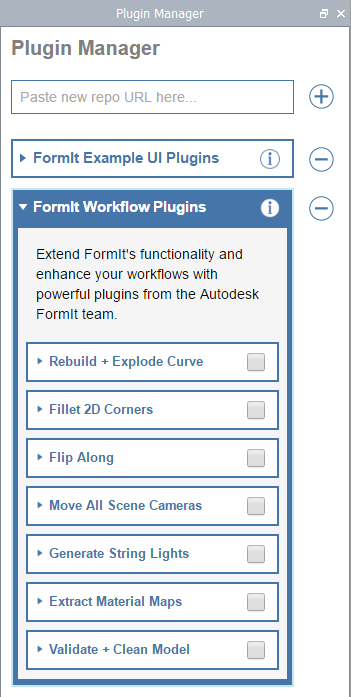
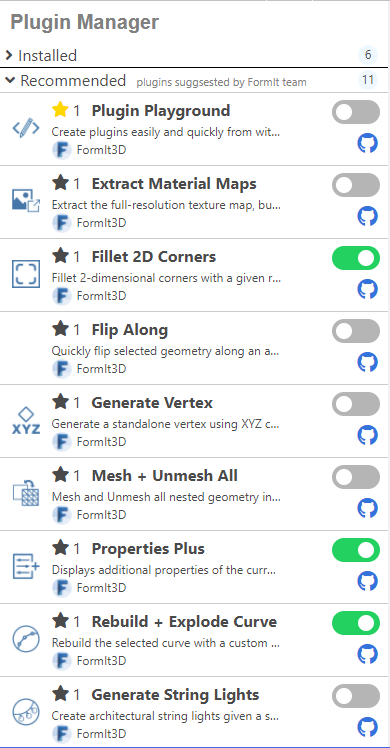
Updates plugin documentation

diff --git a/docs/HowToBuild.html b/docs/HowToBuild.html
@@ -8,7 +8,12 @@
 <h2 class="pageSubtitle">Learn How to Build, Test, and Host Your Own Plugins</h2>
 <p class="pageBlurb">FormIt's JavaScript plugin infrastructure allows the creation of custom 3D workflows and bespoke modeling functionality, using a variety of UI types and a powerful API.</p>
 
-<h3 class="categoryDetailTitle">Jump to...</h3>
+<h3 class="categoryDetailTitle">Jump to (First time plugin developers)...</h3>
+<ul class="categoryDetailList">
+    <li><a href="#PluginPlayground">Your first plugin from the Plugin Playground</a></li>
+</ul>
+
+<h3 class="categoryDetailTitle">Jump to (Advanced users)...</h3>
 <ul class="categoryDetailList">
     <li><a href="#SettingUpEnvironment">Setting Up Your Environment</a></li>
     <li><a href="#SettingUpFormIt">Setting Up FormIt</a></li>
@@ -22,12 +27,26 @@
     <li><a href="#DebuggingPlugins">Debugging Plugins</a></li>
     <li><a href="#HostingPlugins">Hosting Plugins</a></li>
 </ul>
+
 <h3 class="categoryDetailTitle">Useful Links</h3>
 <ul class="categoryDetailList">
     <li><a href="FormItJSAPI/group__mod__jsapi__formit.html" target="_blank">FormIt Core JS API</a></li>
     <li><a href="FormItJSAPI/group__mod__jsapi__wsm.html" target="_blank">FormIt Modeling Kernel (WSM) JS API</a></li>
     <li><a href="../index.html" target="_blank">Using Plugins + The Plugin Manager</a></li>
 </ul>
+
+<div class="categoryBlock" id="PluginPlayground">
+    <h2 class="categoryTitle">Your first plugin from the Plugin Playground</h2>
+    <div class="categoryDetailBlock">
+        <p>
+            Building a plugin can be intimidating at the beginning. To help with this, we've introduced a Plugin Playground, where you can write, test, debug, and see your plugin in action - never needing to leave the FormIt application.
+        </p>
+        <p>
+            <a href="https://formit3d.github.io/PluginPlayground/" target="_blank">Learn how to use the Plugin Playground</a>
+        </p>
+        <img src="https://formit3d.github.io/PluginPlayground/images/preview.png" alt="Plugin Playground">
+    </div>
+</div>
 
 <div class="categoryBlock" id="SettingUpEnvironment">
     <h2 class="categoryTitle">Setting Up Your Environment</h2>
@@ -120,7 +139,7 @@
                     <li>Note you can use your IDE to start the server, too. See the "Install an IDE" section below.</li>
                 </ul>
             </ul>
-    
+
             <p class="categoryDetailBody"><b>Configuring FormIt Web</b></p>
             <p class="categoryDetailBody">Now open <a href="https://app.formit.autodesk.com/" target="_blank">FormIt Web</a> </p>
             <p class="categoryDetailBody">Open the browser’s DevTools (F12) in the FormIt Web page.  In this new DevTools view, go to Application tab/Service Workers and enable Bypass for network:</p><img src="bypassnetwork.png" alt="Bypass for network">
@@ -130,7 +149,7 @@
             <img src="consoleinput.png" alt="Console Input">
             <p class="categoryDetailBody"><b>Note:</b>  Once all these steps are working, all that will need to be done to work on local plugins is to start the server in the correct location:</p>
             <ul><pre><code class="categoryDetailCode"><span>http-server -S -C cert.pem -o -p 8000 --cors</span></code></pre></ul>
-    
+
             <p class="categoryDetailBody"><b>Verify the Web Server</b></p>
             <ul class="categoryDetailList">
                 <li>In a web browser, navigate to the following:</li>
@@ -142,8 +161,8 @@
             </ul>
             </ul>
             </ul>
-    
-    
+
+
             <h3 class="categoryDetailTitle">Install an IDE</h3>
             <p class="categoryDetailBody">Write your code in an integrated development environment (IDE) that helps identify issues, correct syntax errors, and includes a terminal for running your local server.</p>
             <p class="categoryDetailBody">A free IDE that works well for FormIt plugin development is Microsoft's <a href="https://code.visualstudio.com/Download" target="_blank">Visual Studio Code</a>.</p>
@@ -535,7 +554,7 @@
     <h2 class="categoryTitle">Debugging Plugins</h2>
     <div class="categoryDetailBlock">
         <p class="categoryDetailBody">FormIt plugins utilize two distinct JavaScript engines: one in the panel displaying the HTML, and another engine in the FormIt client, which can make calls to FormIt and its geometry kernel. These JavaScript engines are in two different processes.</p>
-        
+
         <p class="categoryDetailBody"><b>Client-Side (FormIt) Debugging</b></p>
         <p class="categoryDetailBody">To debug in FormIt-side code, which applies to both toolbar- and panel-based plugins, you can add a line in the code to pop the desktop application's built-in JS debugger:</p>
         <ul class="categoryDetailList">

diff --git a/index.html b/index.html
@@ -26,50 +26,34 @@
 
         <img src="docs/images/PluginManager1.PNG" alt="The FormIt Plugin Manager" class="imgLarge">
 
-        <p class="categoryDetailBody">The Plugin Manager automatically includes two repositories from the FormIt Team:</a></p>
+        <p class="categoryDetailBody">The Plugin Manager categorizes a few types of plugins:</a></p>
         <ul class="categoryDetailList">
-            <li><b>FormIt Workflow Plugins</b></li>
-                <ul>
-                    <li>Try new workflows like rebuilding curves, filleting 2D arcs, moving all cameras, quick-flipping geometry about an axis, and more.</li>
-                    <li>Updated regularly with new plugins. Have a plugin you'd like us to build? <a href="https://github.com/FormIt3D/FormItWorkflowPlugins/issues" target="_blank">Let us know on GitHub!</a></li>
-                </ul>
-            <li><b>FormIt Example UI Plugins</b></li>
+            <li><b>Installed plugins</b></li>
+            <li><b>Recommended plugins</b></li>
             <ul>
-                <li>Learn how FormIt Plugins work by seeing examples of various UI types: HTML panels, toolbars, and dialogs.</li>
-                <li>Use as a starting point when building your own plugins!</li>
-                <li>Having issues? <a href="https://github.com/FormIt3D/FormItWorkflowPlugins/issues" target="_blank">Drop us a line on GitHub.</a></li>
+                <li>These are plugins that the FormIt team recommends to improve your workflows.</li>
+                <li>Plugins appear here after being approved by the FormIt team. More details to come on this in the future.</li>
+
             </ul>
+            <li><b>Public plugins</b></li>
+            <ul>
+                <li>These are plugins built by the community.</li>
+                <li></li>
+            </ul>
+            <li>Having issues? <a href="https://github.com/FormIt3D/FormItWorkflowPlugins/issues" target="_blank">Drop us a line on GitHub.</a></li>
         </ul>
         <p class="categoryDetailBody">The Plugin Manager is designed using a series of expandable and collapsible interfaces, which makes managing plugins and their repositories easy:</p>
         <ul class="categoryDetailList">
-            <li><b>Managing Repositories:</b></li>
-            <ul>
-                <li>Click a repo name to expand or collapse the list of plugins it contains.</li>
-                <ul>
-                    <li>The FormIt Workflow Plugins repo always expands when the Plugin Manager loads.</li>
-                </ul>
-                <li>You can link new plugin repositories, including your own locally-hosted server when building plugins, by pasting the URL to the repository folder in the text box at the top, then hitting (+).</li>
-                <li>You can unlink plugin repositories by clicking the (-) button next to the repo name.</li>
-                <ul>
-                    <li>Unlinking the two default plugin repositories, <i>FormIt Example Plugins</i> and <i>FormIt Workflow Plugins</i>, is not recommended.</li>
-                    <li>If you unlinked the default repos and want to add them again, copy and paste the following URLs into the box at the top and hit (+):</li>
-                    <ul>
-                        <li class="categoryDetailCode"><span>https://formit3d.github.io/FormItWorkflowPlugins</span>
-                        </li>
-                        <li class="categoryDetailCode"><span>https://formit3d.github.io/FormItExamplePlugins</span>
-                        </li>
-                    </ul>
-                </ul>
-            </ul>
             <li><b>Managing Plugins:</b></li>
             <ul>
                 <li>Click on a plugin name to see its description.</li>
-                <li>Check the plugin checkbox to install it.</li>
+                <li>Check the switch to install or uninstall it.</li>
                 <ul>
                     <li>The plugin will manifest as a toolbar at the top of the application, a panel on the right side, or a dialog in the middle, depending on the plugin.</li>
                 </ul>
-                <li>Uncheck the plugin checkbox to uninstall it.</li>
             </ul>
+            <li>You can also add a private URL of a plugin into the input at the bottom and hit (+):</li>
+            <img src="docs/images/addNew.png" alt="The FormIt Plugin Manager" class="imgLarge">
         </ul>
 
         <h3 class="categoryDetailTitle">How Plugins Work</h3>
